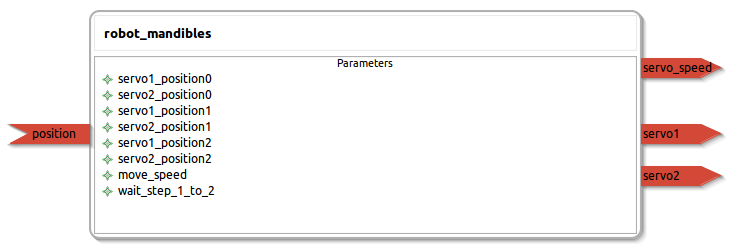
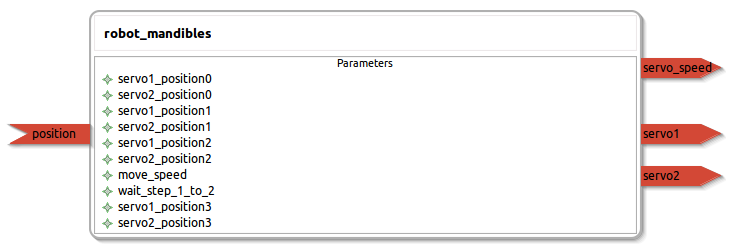
[MANDIBLES] Add a new position.

Changed region(s): [[0.1204, 0.8153, 0.301, 0.9277]]

diff --git a/robot_mandibles/common/src/robot_mandibles_common.cpp b/robot_mandibles/common/src/robot_mandibles_common.cpp
@@ -16,10 +16,14 @@
 #define GOTO_2_STEP1 	21
 #define GOTO_2_STEP2 	22
 #define IN_2 			23
+#define GOTO_3_STEP1 	31
+#define GOTO_3_STEP2 	32
+#define IN_3 			33
 
 #define TO_POSITION_0 	0
 #define TO_POSITION_1 	1
 #define TO_POSITION_2 	2
+#define TO_POSITION_3 	3
 /* protected region user include files end */
 
 class robot_mandibles_config
@@ -33,6 +37,8 @@ public:
     int servo2_position2;
     int move_speed;
     double wait_step_1_to_2;
+    int servo1_position3;
+    int servo2_position3;
 };
 
 class robot_mandibles_data
@@ -174,6 +180,35 @@ public:
 			data.out_servo1.data = (uint16_t)local_config.servo1_position2;
 			data.out_servo2.data = (uint16_t)local_config.servo2_position2;
 			break;
+		case GOTO_3_STEP1:
+			data.out_servo_speed_active = true;
+			data.out_servo1_active = true;
+			data.out_servo2_active = false;
+			data.out_servo_speed.data = (uint16_t)local_config.move_speed;
+			data.out_servo1.data = (uint16_t)local_config.servo1_position3;
+			data.out_servo2.data = (uint16_t)local_config.servo2_position3;
+			timer = ros::Time::now();
+			state = GOTO_2_STEP2;
+			break;
+		case GOTO_3_STEP2:
+			if( (ros::Time::now().toSec() - timer.toSec()) > local_config.wait_step_1_to_2 ){
+				data.out_servo_speed_active = true;
+				data.out_servo1_active = true;
+				data.out_servo2_active = true;
+				data.out_servo_speed.data = (uint16_t)local_config.move_speed;
+				data.out_servo1.data = (uint16_t)local_config.servo1_position3;
+				data.out_servo2.data = (uint16_t)local_config.servo2_position3;
+				state = IN_3;
+			}
+			break;
+		case IN_3:
+			data.out_servo_speed_active = false;
+			data.out_servo1_active = false;
+			data.out_servo2_active = false;
+			data.out_servo_speed.data = (uint16_t)local_config.move_speed;
+			data.out_servo1.data = (uint16_t)local_config.servo1_position3;
+			data.out_servo2.data = (uint16_t)local_config.servo2_position3;
+			break;
     	default:
     		break;
     	}
@@ -201,6 +236,12 @@ public:
 			else
 				state = GOTO_2_STEP1;
     	    break;
+    	case TO_POSITION_3:
+			if(state != IN_O)
+				state = GOTO_3_STEP2;
+			else
+				state = GOTO_3_STEP1;
+			break;
     	default:
     		break;
     	}

diff --git a/robot_mandibles/ros/src/robot_mandibles_ros.cpp b/robot_mandibles/ros/src/robot_mandibles_ros.cpp
@@ -50,6 +50,8 @@ class robot_mandibles_ros
         np_.param("servo2_position2", component_config_.servo2_position2, (int)80);
         np_.param("move_speed", component_config_.move_speed, (int)3);
         np_.param("wait_step_1_to_2", component_config_.wait_step_1_to_2, (double)1.0);
+        np_.param("servo1_position3", component_config_.servo1_position3, (int)80);
+        np_.param("servo2_position3", component_config_.servo2_position3, (int)80);
     }
     void topicCallback_position(const std_msgs::UInt16::ConstPtr& msg)
     {
@@ -66,6 +68,8 @@ class robot_mandibles_ros
         component_config_.servo2_position2 = config.servo2_position2;
         component_config_.move_speed = config.move_speed;
         component_config_.wait_step_1_to_2 = config.wait_step_1_to_2;
+        component_config_.servo1_position3 = config.servo1_position3;
+        component_config_.servo2_position3 = config.servo2_position3;
         configure();
     }
 

diff --git a/robot_mandibles/README.md b/robot_mandibles/README.md
@@ -42,6 +42,14 @@ Node: robot_mandibles
 <!--- protected region wait_step_1_to_2 on begin -->
 <!--- protected region wait_step_1_to_2 end -->
 
+**servo1_position3** *(int, default: 80)*
+<!--- protected region servo1_position3 on begin -->
+<!--- protected region servo1_position3 end -->
+
+**servo2_position3** *(int, default: 80)*
+<!--- protected region servo2_position3 on begin -->
+<!--- protected region servo2_position3 end -->
+
 
 #### Published Topics
 **servo_speed** *(std_msgs::UInt16)*   
